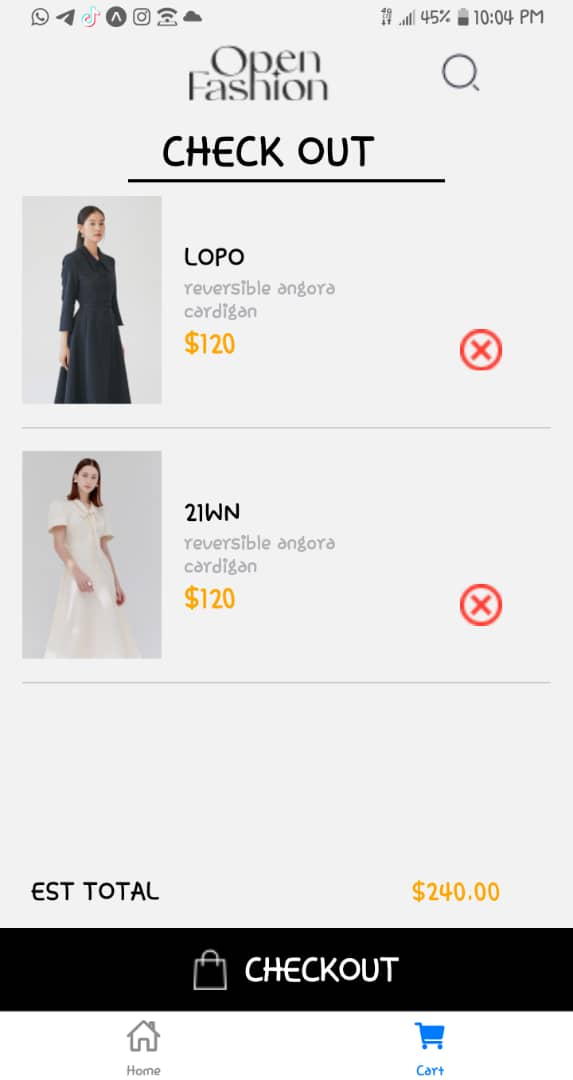
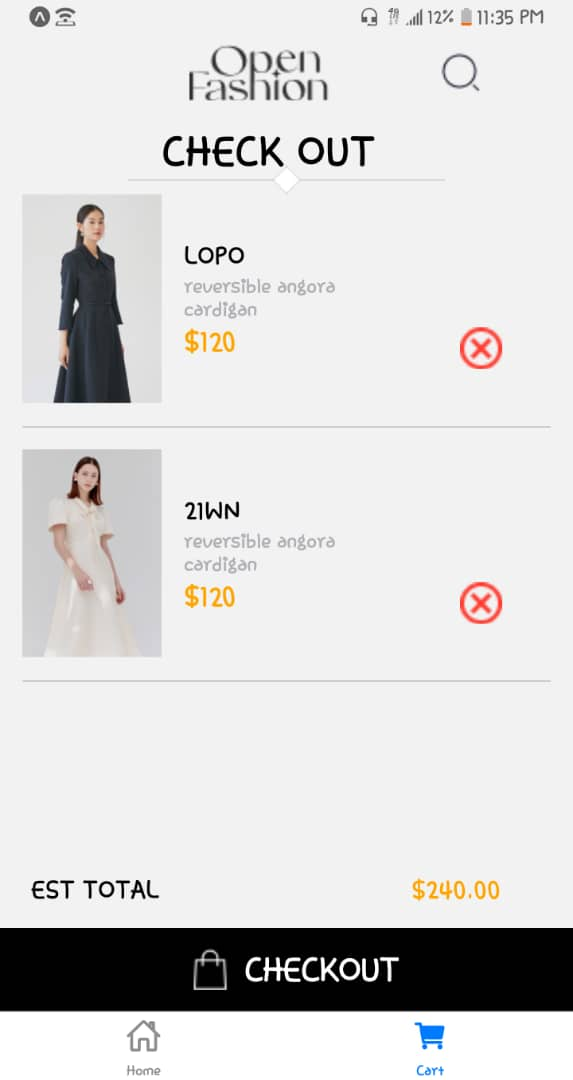
both cartScreenand homeScreen has been modified

diff --git a/App-Project-VI/components/cartScreen.js b/App-Project-VI/components/cartScreen.js
@@ -196,6 +196,17 @@ const styles = StyleSheet.create({
     right: 20,
     top: 100,
   },
+  
+  diamond: {
+    width: 15,
+    height: 15,
+    backgroundColor: '#fff',
+    transform: [{ rotate: '45deg' }],
+    position: 'absolute',
+    bottom: -8,
+    borderWidth: 1,
+    borderColor: 'rgba(0, 0,0,0.1)',
+},
   footer: {
     position: 'absolute',
     bottom: 0, 
